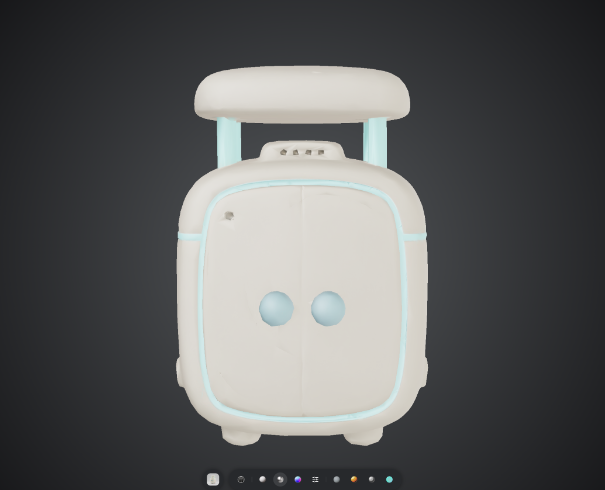
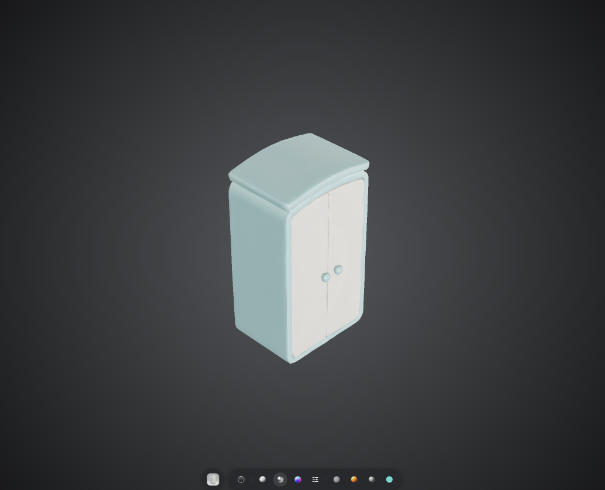
Tripo: wardrobe and kite redone

Changed region(s): [[0.2678, 0.1224, 0.714, 0.9184]]

diff --git a/docs/tripo-props.md b/docs/tripo-props.md
@@ -6,7 +6,7 @@ Replaces the rough list in `docs/tripo-objects.md`. Goal: every 3D prop and worl
 
 > **Real size and room shells (2026-10-21):** Tripo normalises every model to ~1 unit, so run `python tools/resize_props.py` after each export (drop Tripo files in `props/raw/`; it reads the size column below and writes real-size copies to `props/`). **Room shells, floors, ground and sky are NOT made in Tripo any more:** both the web app (three.js, already code-built rooms) and Unity build them as simple pieces in our colours; Tripo makes furniture, toys, food, animals and vehicles only. The same GLBs go into both the web app and Unity. Skip the `*_shell`, ground and sky rows when making batches. Orientation checked on the pilot (three.js render): Tripo props already face +Z, so no rotation fix is needed.
 
-> **Batch 1 done (2026-10-21):** 22 more house props made in 3D (990 credits; 23,495 left), sized with resize_props.py, all in `Downloads\Pash 3D\props\` (Tripo originals in `raw\`). Previews: docs/style-tests/batch1-3d-sheet.png. Redo candidates: bedroom_wardrobe (reads like a suitcase), toy_kite (one faded panel). Not yet placed in the web app or Unity.
+> **Batch 1 done (2026-10-21):** 22 more house props made in 3D (990 credits; 23,495 left), sized with resize_props.py, all in `Downloads\Pash 3D\props\` (Tripo originals in `raw\`). Previews: docs/style-tests/batch1-3d-sheet.png. Redone (90 credits): bedroom_wardrobe (new right image, now a real wardrobe) and toy_kite (new left image, solid). The new kite GLB looks turned on its vertical axis (bounds 0.61 x 0.98 x 0.51 m before sizing), so rotate it to face +Z when placing it. Not yet placed in the web app or Unity.
 
 > **Pilot done (2026-10-21):** 5 GLBs in `Downloads\Pash 3D\props\` (bedroom_lamp 2.9k tris/512, toy_teddy_bear 4.8k/1k, bedroom_bed 9.6k/1k, farm_cow 7.7k/1k, room_living_shell 9.9k/1k; 0.2-0.7 MB each). Previews: docs/style-tests/3d-*.png. Findings: **45 credits per model** at H3.1 + Ultra + AI Complete + 2K texture + PBR + Remove Lighting + Triangle (120 props = about 5,400 credits); **Generate in Parts cannot be combined with Texture** (turning one on turns the other off), so floating parts come out as separate pieces in one mesh, to split in Blender/Unity if they must move; export lets you pick GLB and 512/1k texture. Room shell: the painted window view came out garbled, so make windows plain openings and put a sky behind them in the engine.
 
